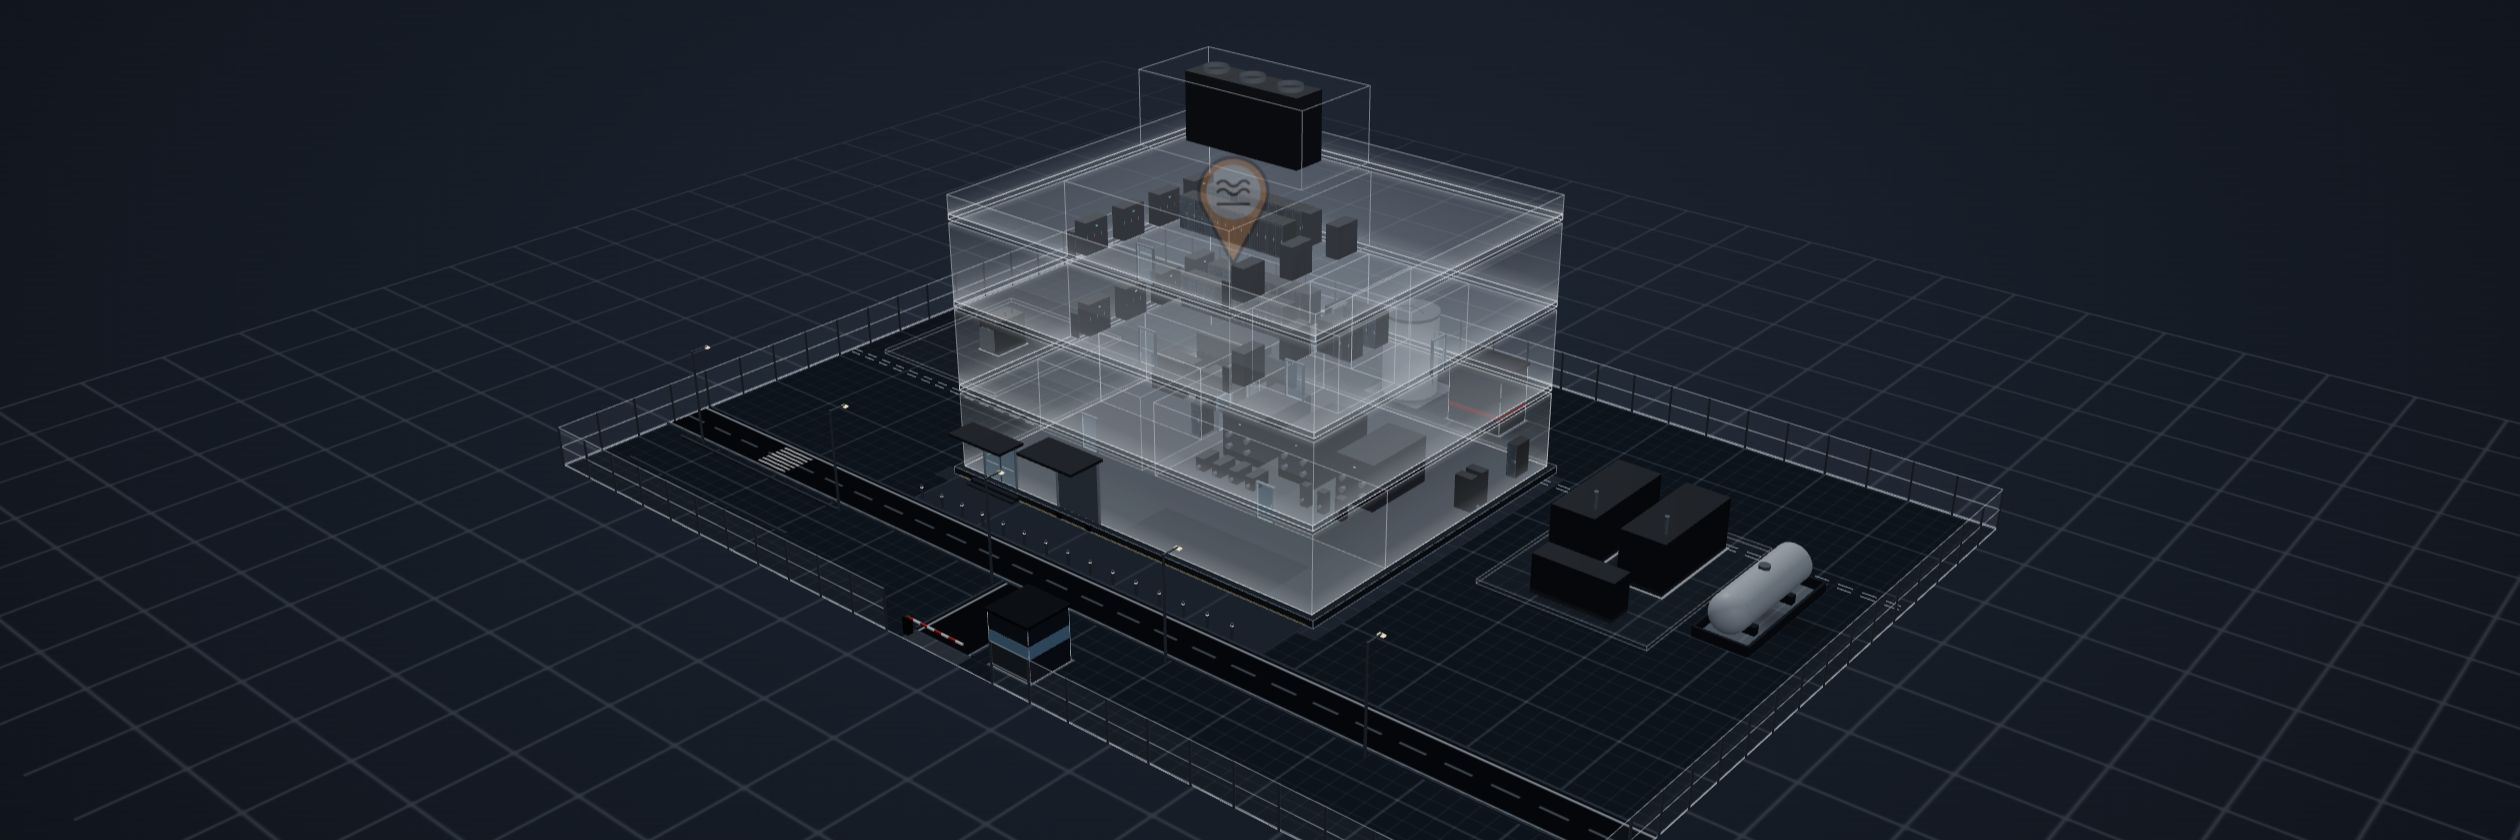
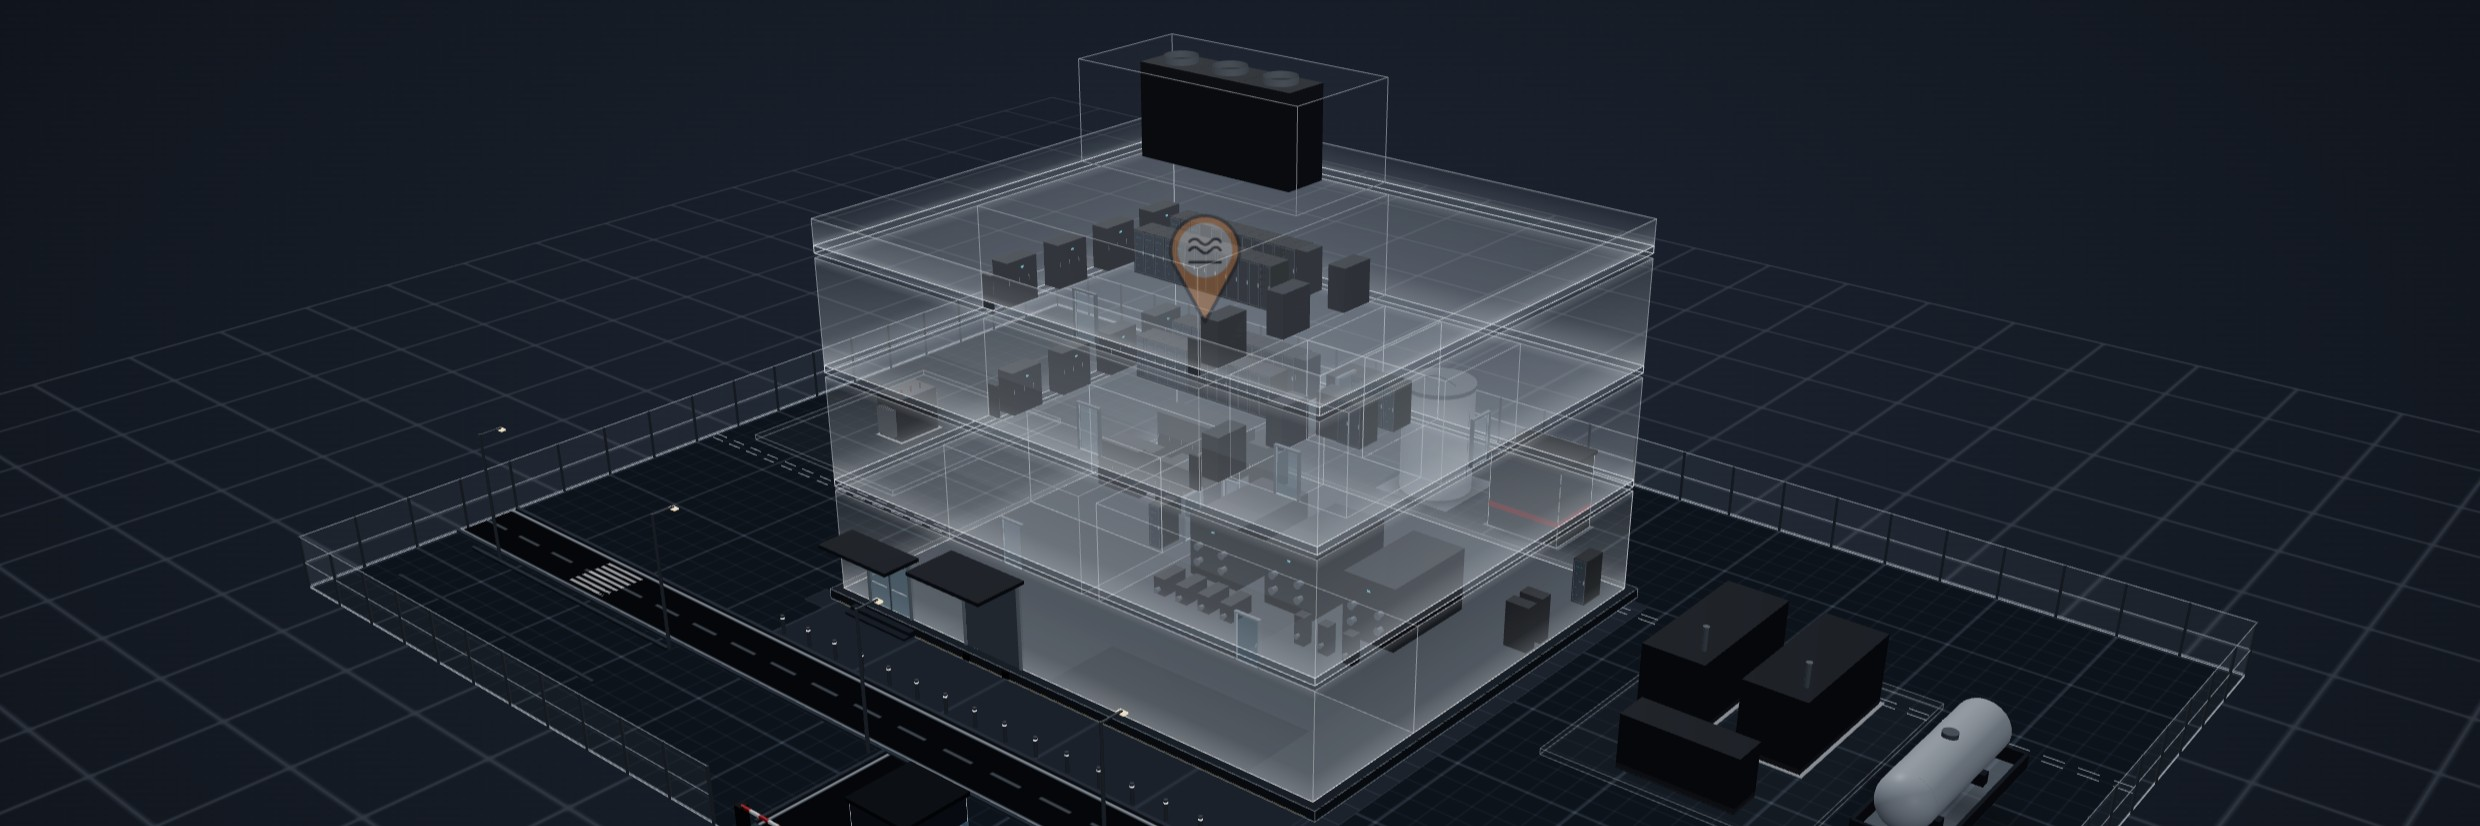
The floor map card sits closer to the building, with a small lift
The crop steps in a notch so the building fills the card, and the floor
card alone gets a contrast and brightness lift: the 3D scene renders dim
at card size, and the other two shots do not need it.

diff --git a/frontend/src/features/home/RailCards.tsx b/frontend/src/features/home/RailCards.tsx
@@ -31,7 +31,7 @@ const CARDS = [
     body: 'Every device and the links between them, room by room, with the power, cooling, network and management paths as layers.',
   },
   {
-    to: '/floorplan', title: 'Floor map', dark: floorDark, light: floorLight,
+    to: '/floorplan', title: 'Floor map', dark: floorDark, light: floorLight, lift: true,
     body: 'The site in 3D, from the compound through the building to a rack and the device in its U - live, or at any moment in the past.',
   },
   {
@@ -43,9 +43,9 @@ const CARDS = [
 export function RailCards() {
   return (
     <>
-      {CARDS.map(({ to, title, body, dark, light }) => (
+      {CARDS.map(({ to, title, body, dark, light, lift }) => (
         <Link key={title} className="rail-card" to={to}>
-          <div className="visual shot" aria-hidden
+          <div className={`visual shot${lift ? ' lift' : ''}`} aria-hidden
                style={{ '--shot-dark': `url(${dark})`, '--shot-light': `url(${light})` } as CSSProperties} />
           <div className="body">
             <h3>{title}</h3>

diff --git a/frontend/src/home.css b/frontend/src/home.css
@@ -671,6 +671,8 @@ button.ind:focus-visible { outline: 2px solid var(--accent); outline-offset: 1px
   background-position: center; background-repeat: no-repeat;
 }
 :root[data-theme="light"] .rail-card .visual.shot { background-image: var(--shot-light); }
+/* The 3D scene renders dim at card size; a small lift keeps the building readable. */
+.rail-card .visual.shot.lift { filter: contrast(1.15) brightness(1.1); }
 .rail-card .body {
   padding: 16px 18px; display: flex; flex-direction: column; gap: 8px; flex: 1;
 }
